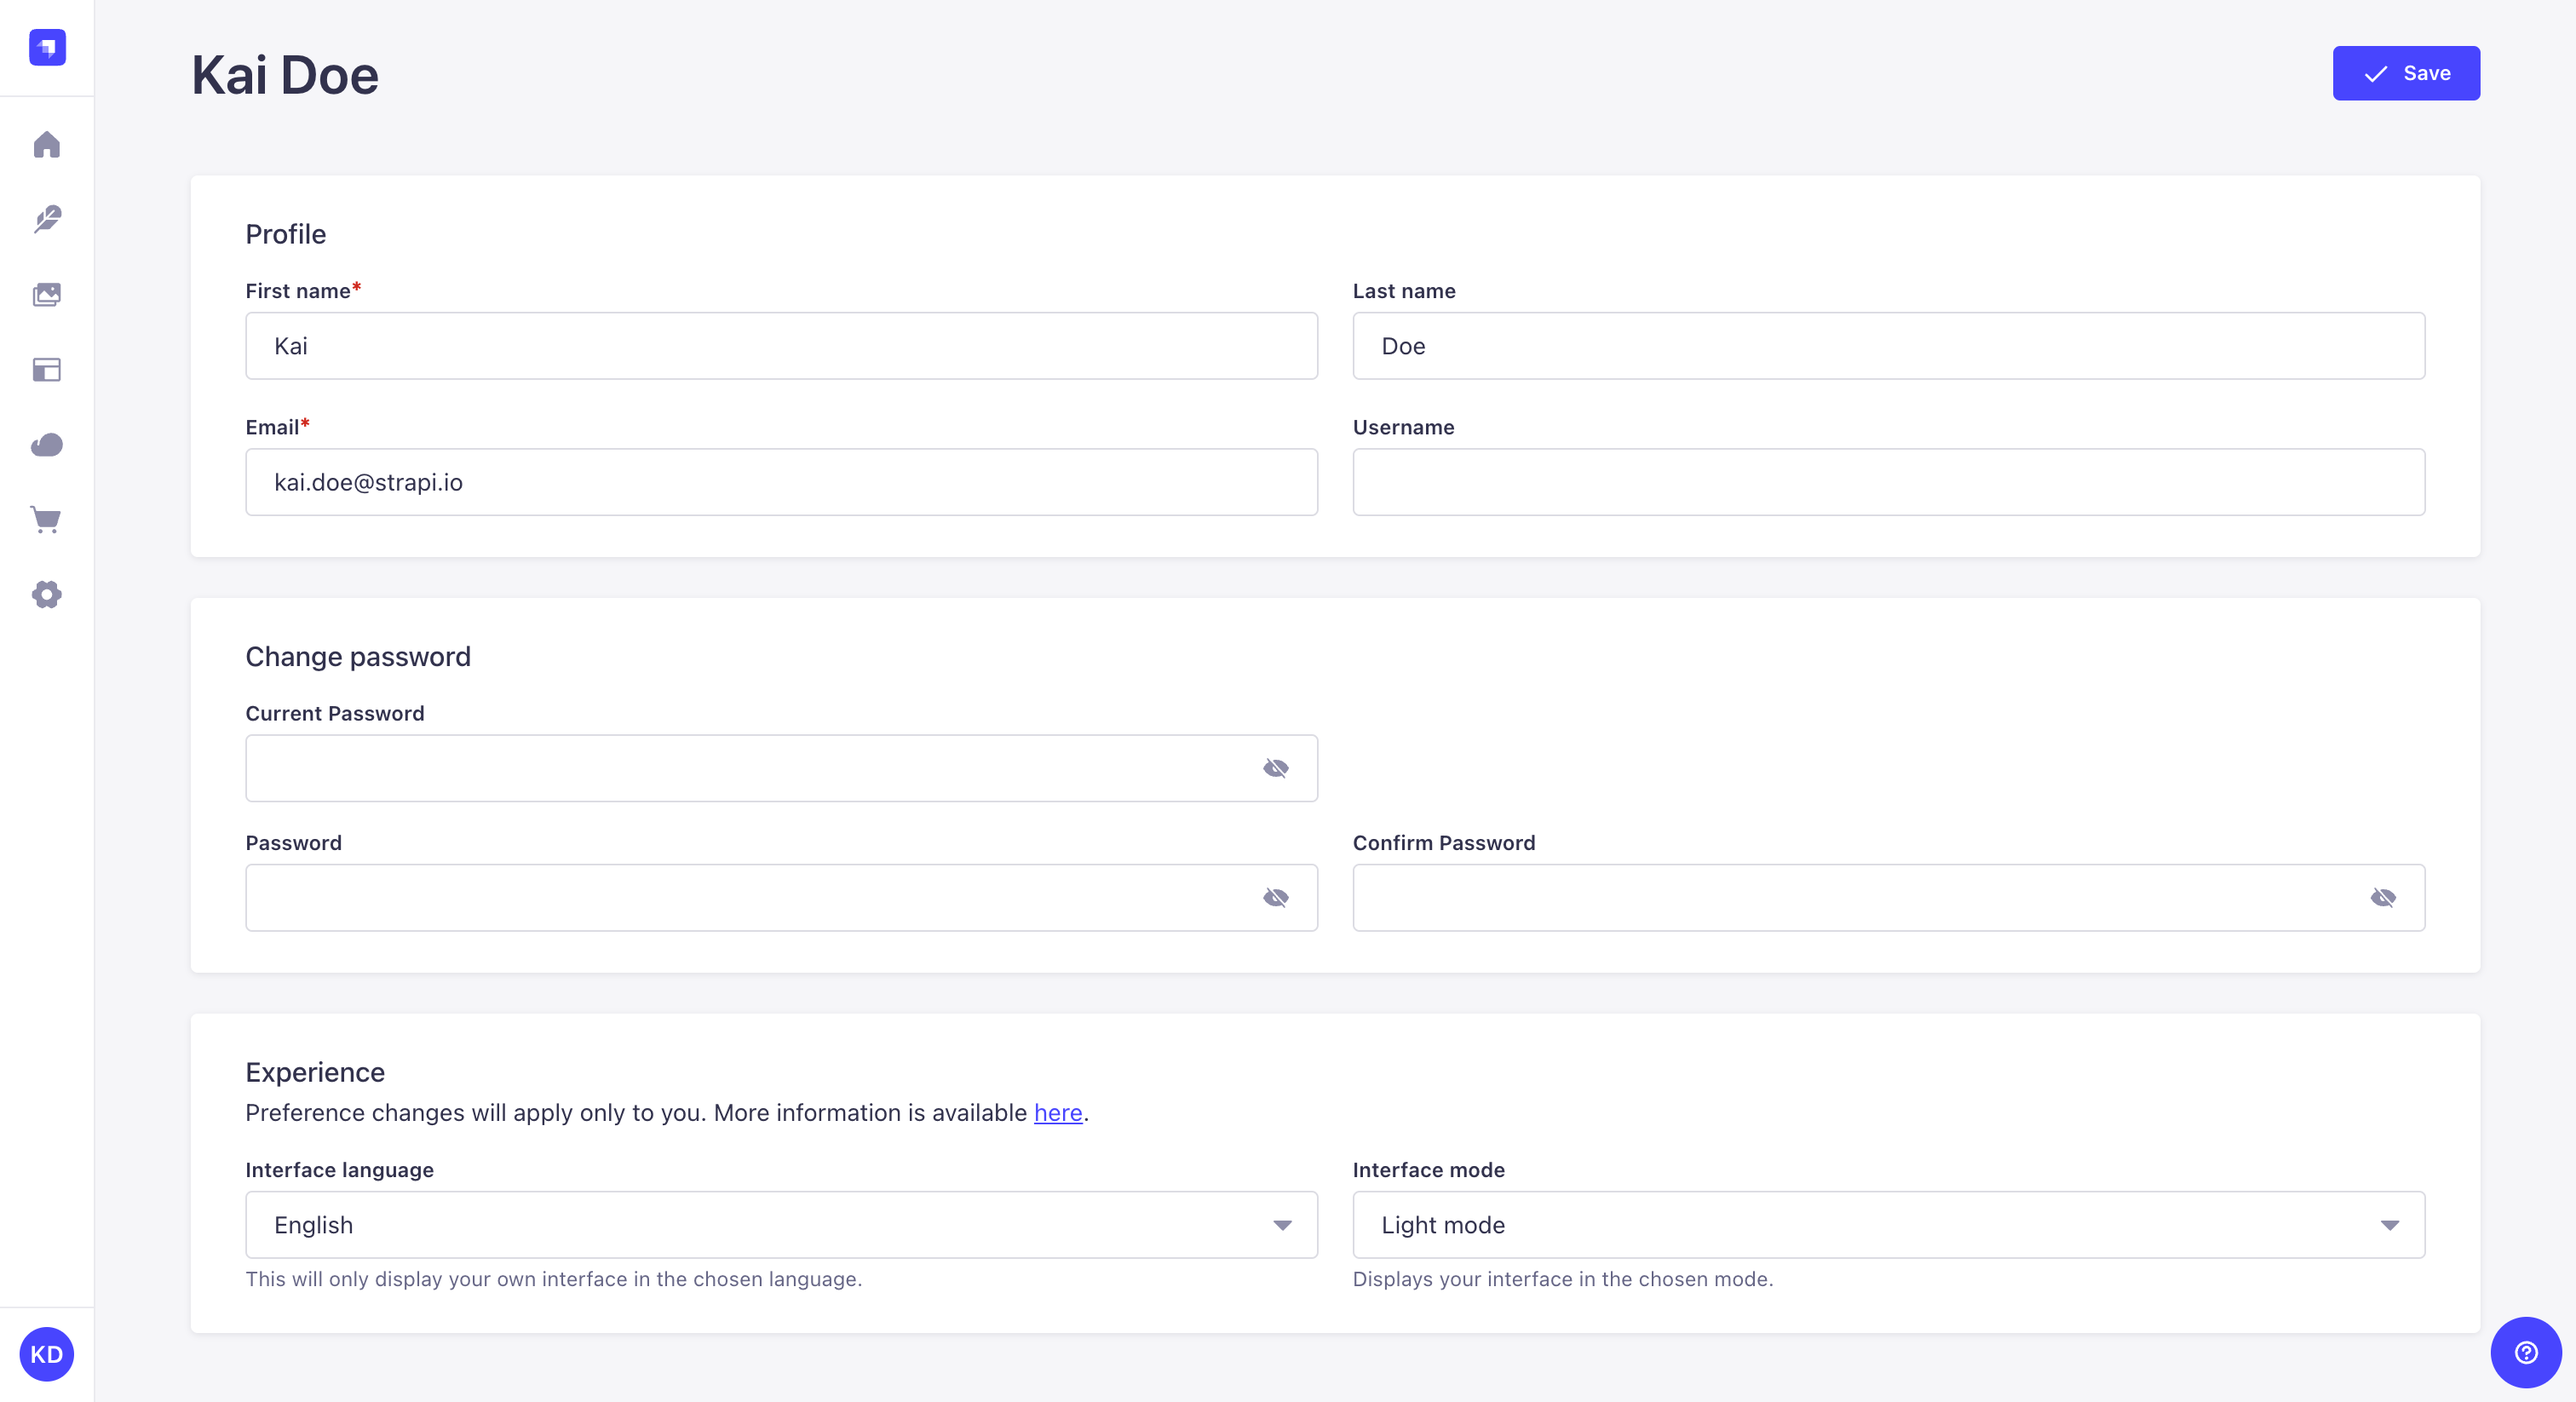
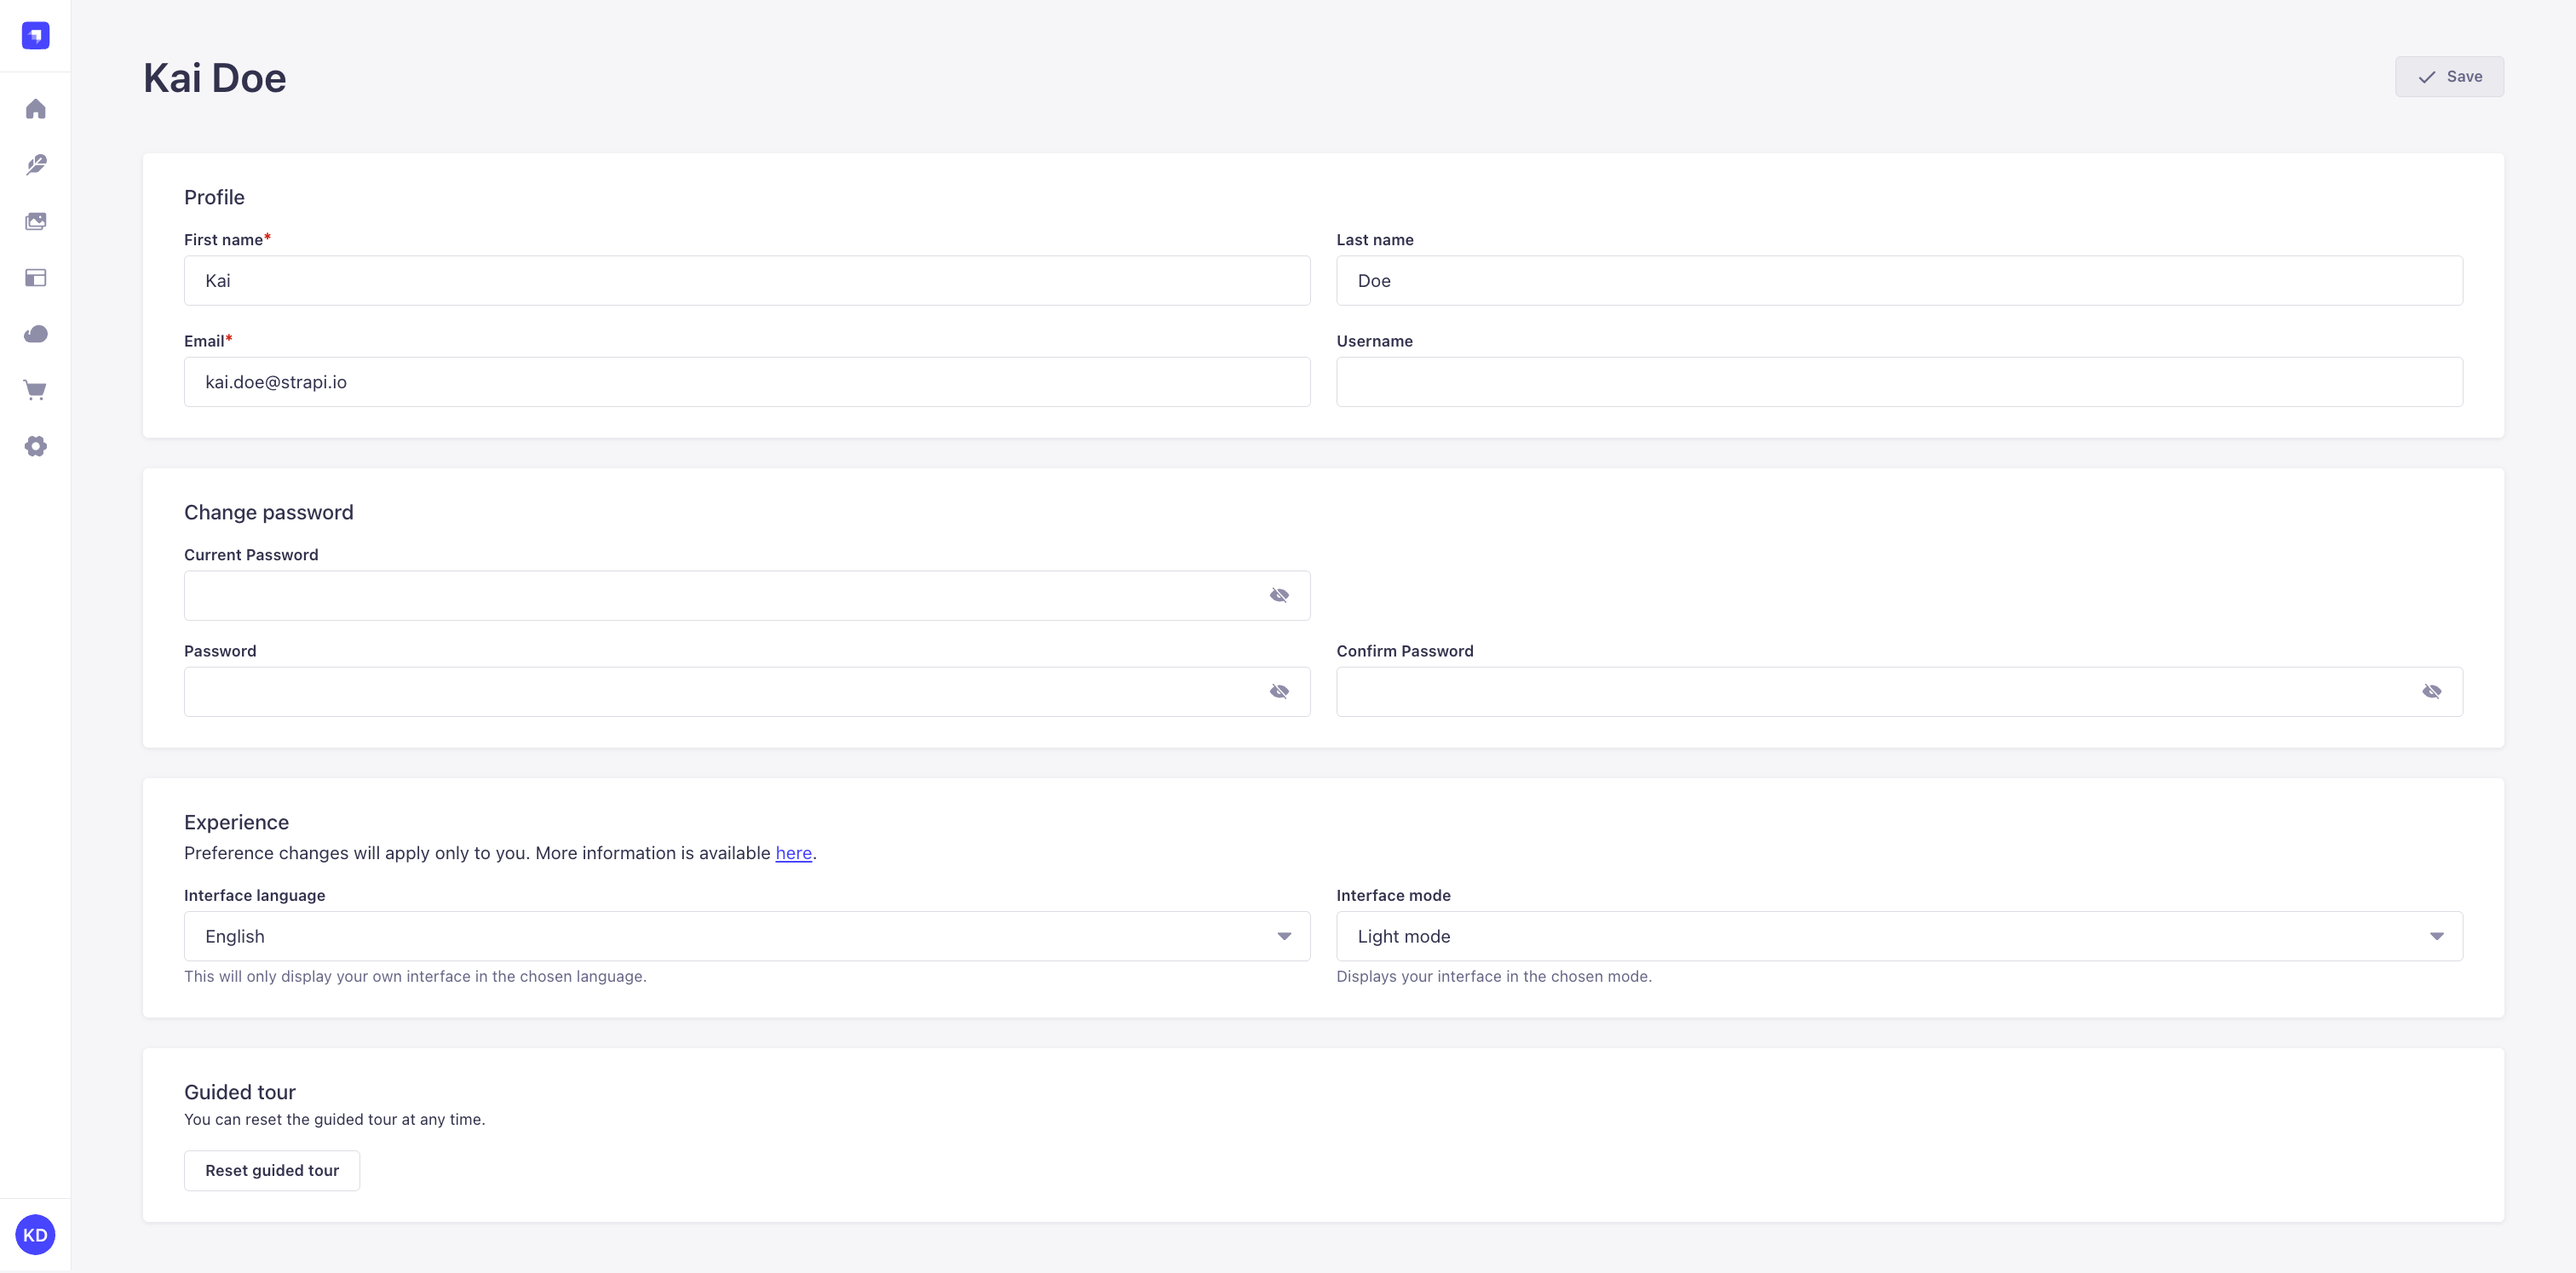
Update admin panel doc to add new 'Reset guided tour' setting

diff --git a/docusaurus/docs/cms/features/admin-panel.md b/docusaurus/docs/cms/features/admin-panel.md
@@ -109,6 +109,10 @@ By default, the chosen interface mode is based on your browser's mode. You can h
 Keep in mind that choosing an interface mode only applies to your account on the admin panel.
 :::
 
+### Resetting guided tour
+
+In the *Guided tour* section of your profile, you can click the **Reset guided tour** button to reset the guided tour which is available in the homepage of the admin panel. It allows you to see again the guided tour of the admin panel if you closed it beforehand, and to follow again its various steps.
+
 ### Customizing the logo
 
 **Path to configure the admin panel:** <Icon name="gear-six" /> *Settings > Global settings > Overview*
